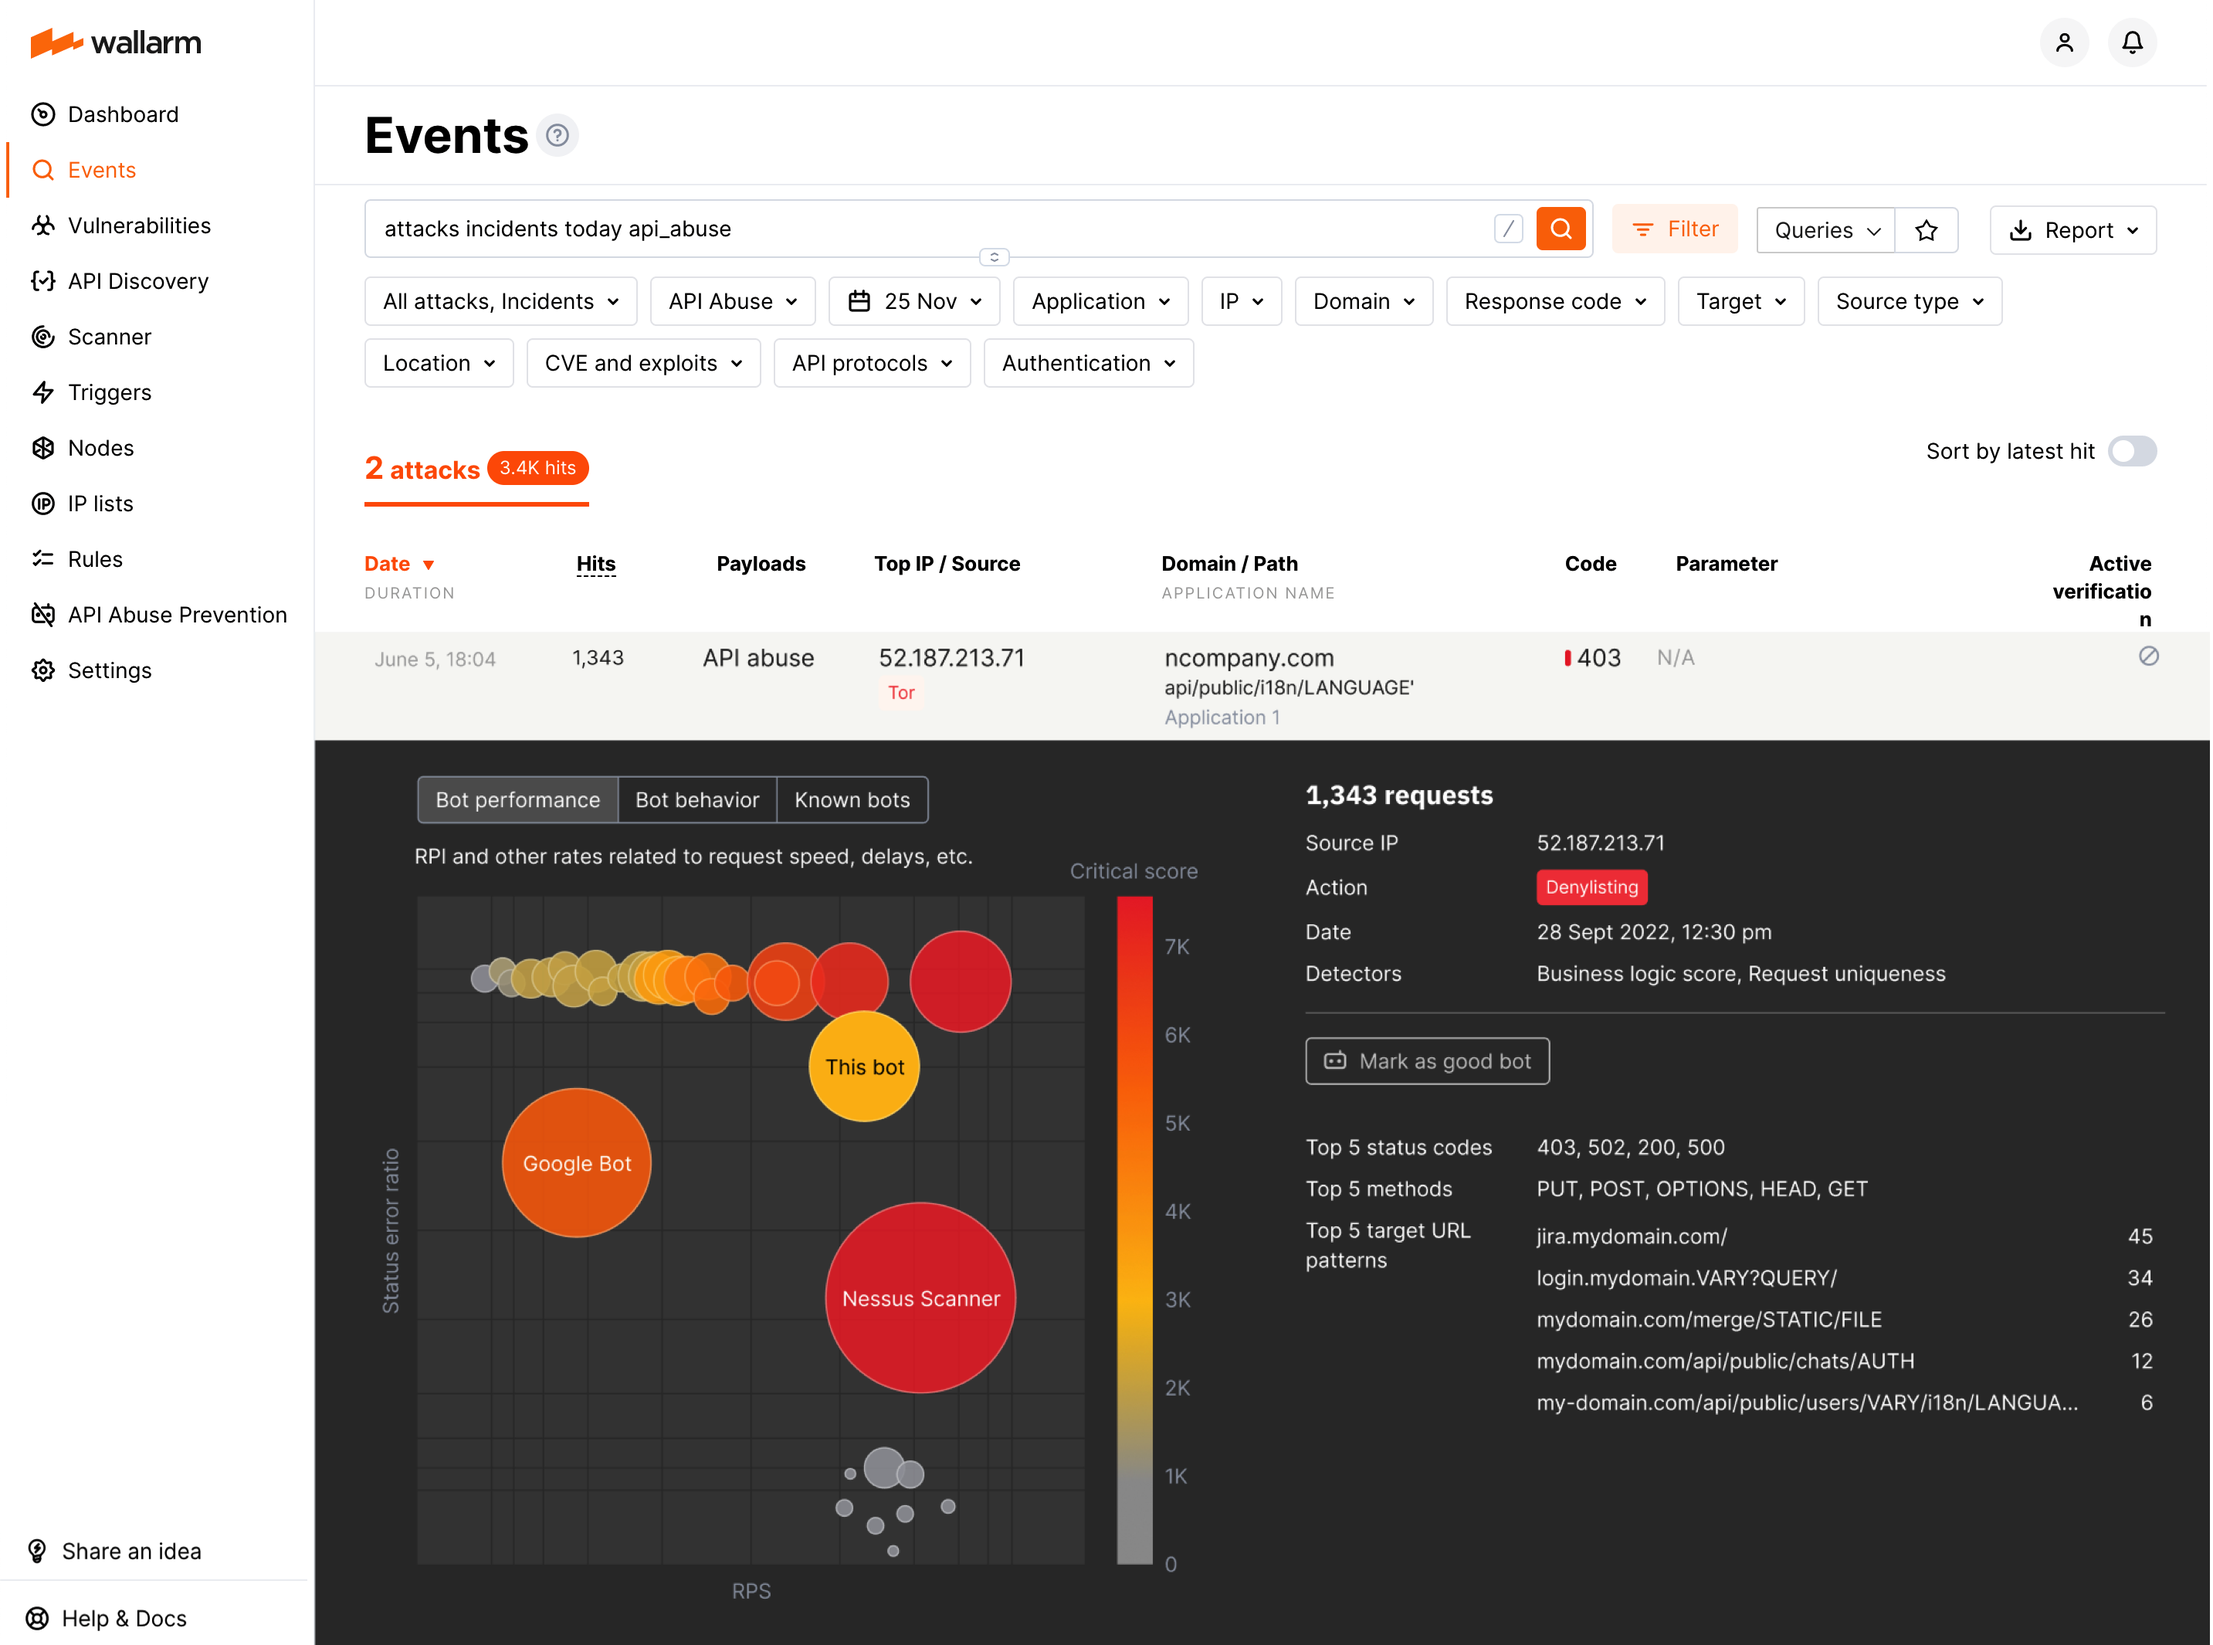
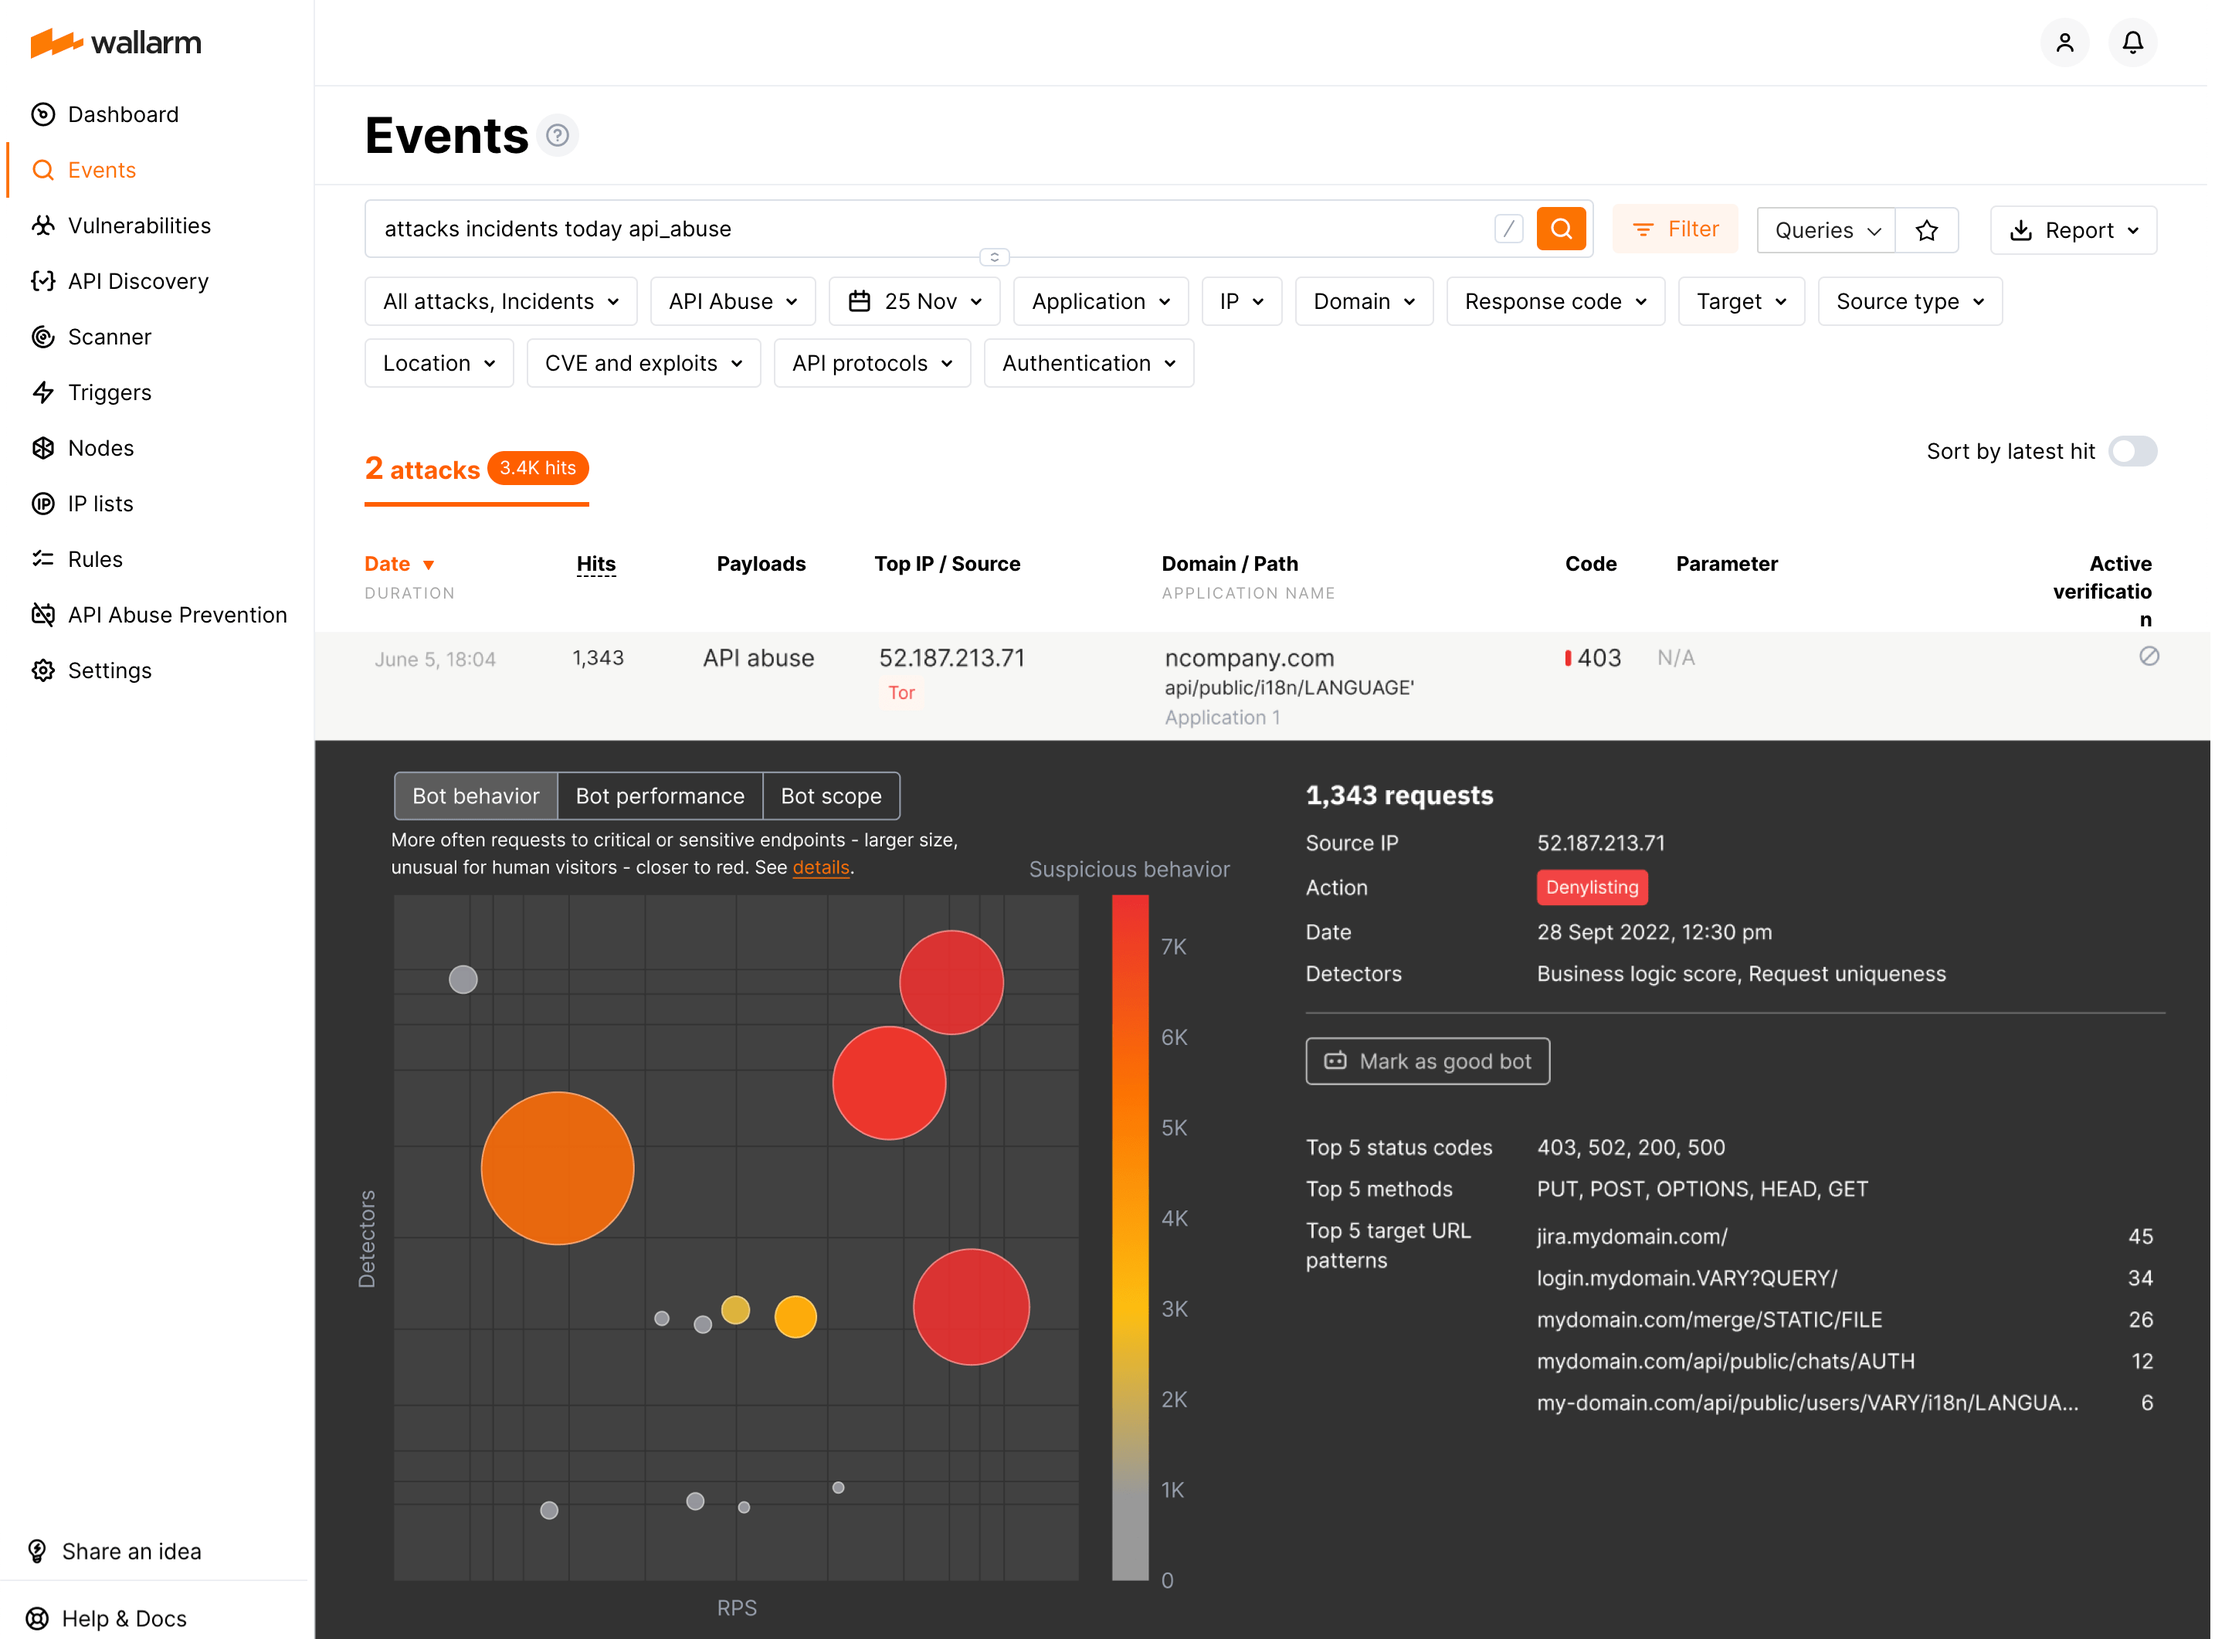
DOCS-1994 Fixes due to comments

diff --git a/docs/latest/user-guides/api-abuse-prevention.md b/docs/latest/user-guides/api-abuse-prevention.md
@@ -48,27 +48,27 @@ You can also explore bot API abuse attacks performed by bots in Wallarm Console 
 
 ![!API Abuse events](../images/about-wallarm-waf/abi-abuse-prevention/api-abuse-events.png)
 
-Bot information is visualized in three blob charts. In all charts, the bigger the blob, the closer it to red color and to the right upper corner - the more reasons to consider this IP to be a bot. On the charts, you also can compare you current bot with the other detected bots, but not more than 30 most suspicious.
+Bot information is visualized in three bubble plots. In all plots, the bigger the bubble, the closer it to red color and to the right upper corner - the more reasons to consider this IP to be a bot. On the plots, you also can compare you current bot with the other detected bots, but not more than 30 most suspicious.
 
-The blob charts:
+The bubble plots:
 
 * **Bot behavior** displays different aspects of the bot behavior, including:
 
-    * Blob size: business logic score, the more often among all your API endpoints the IP requested critical or sensitive ones, the larger the size.
+    * Bubble size: business logic score, the more often among all your API endpoints the IP requested critical or sensitive ones, the larger the size.
     * Color: suspicious behavior score, the more often among all your API endpoints the IP requested the ones that were unusual for normal user to be interested in your application, the closer to the red.
     * Horizontally: the more RPS (requests per second), the farther to the right.
     * Vertically: the more bot detectors made "this is a bot" decision, the higher on the graph.
 
 * **Bot performance** displays intensity of bot activities, including:
 
-    * Blob size: request non-uniqueness, the more the IP requested the same (not unique) API endpoints, the larger the size.
+    * Bubble size: request non-uniqueness, the more the IP requested the same (not unique) API endpoints, the larger the size.
     * Color: scheduled requests, the more the IP requested API endpoints due to the schedule (the same time intervals), the closer to the red.
     * Horizontally: the more RPS (requests per second), the farther to the right.
     * Vertically: the faster the IP sends the requests, the higher on the graph. Comparing to RPS: IP can send 3 requests per second (which is not a lot), but do that within 3 milliseconds (which is very fast).
 
 * **Bot scope** displays bot relation to its targets, including:
 
-    * Blob size: the more different API endpoints the IP requested, the larger the size.
+    * Bubble size: the more different API endpoints the IP requested, the larger the size.
     * Color: the more requests with unsafe method the IP requested, the closer to the red.
     * Horizontally: the more RPS (requests per second), the farther to the right.
     * Vertically: the more error responses (4XX, 5XX) from the origin server, the higher on the graph.
